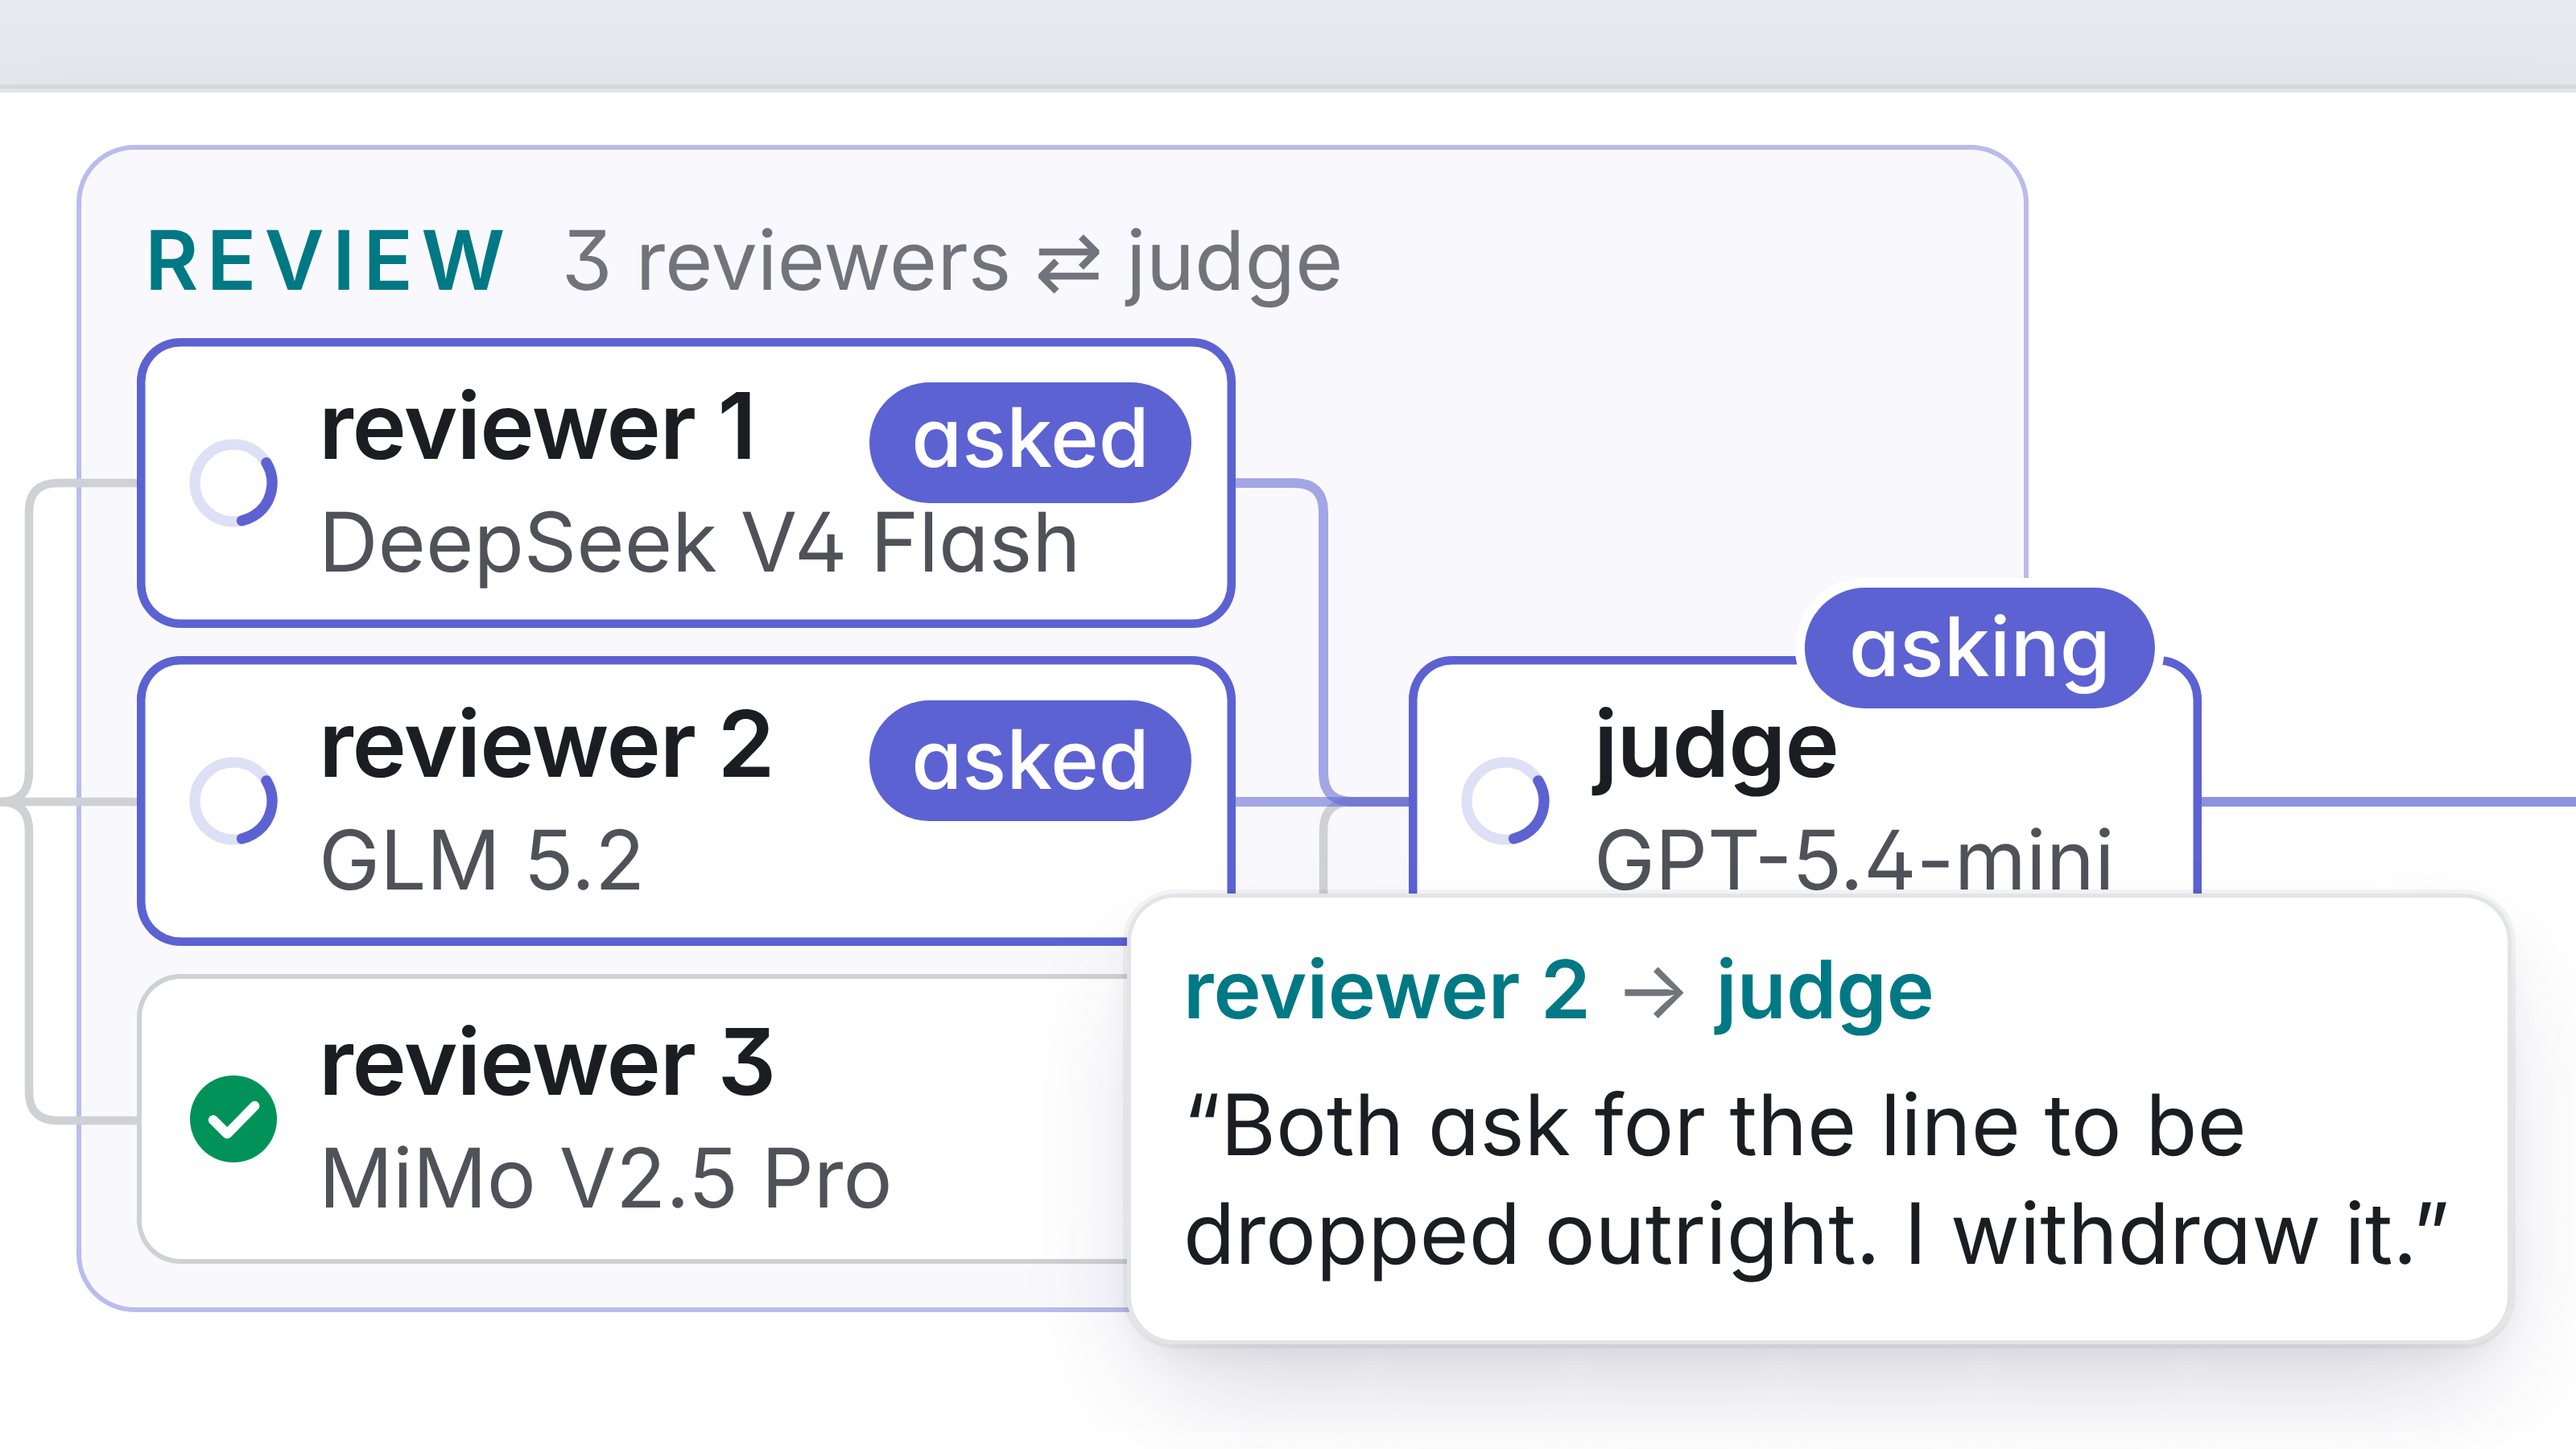
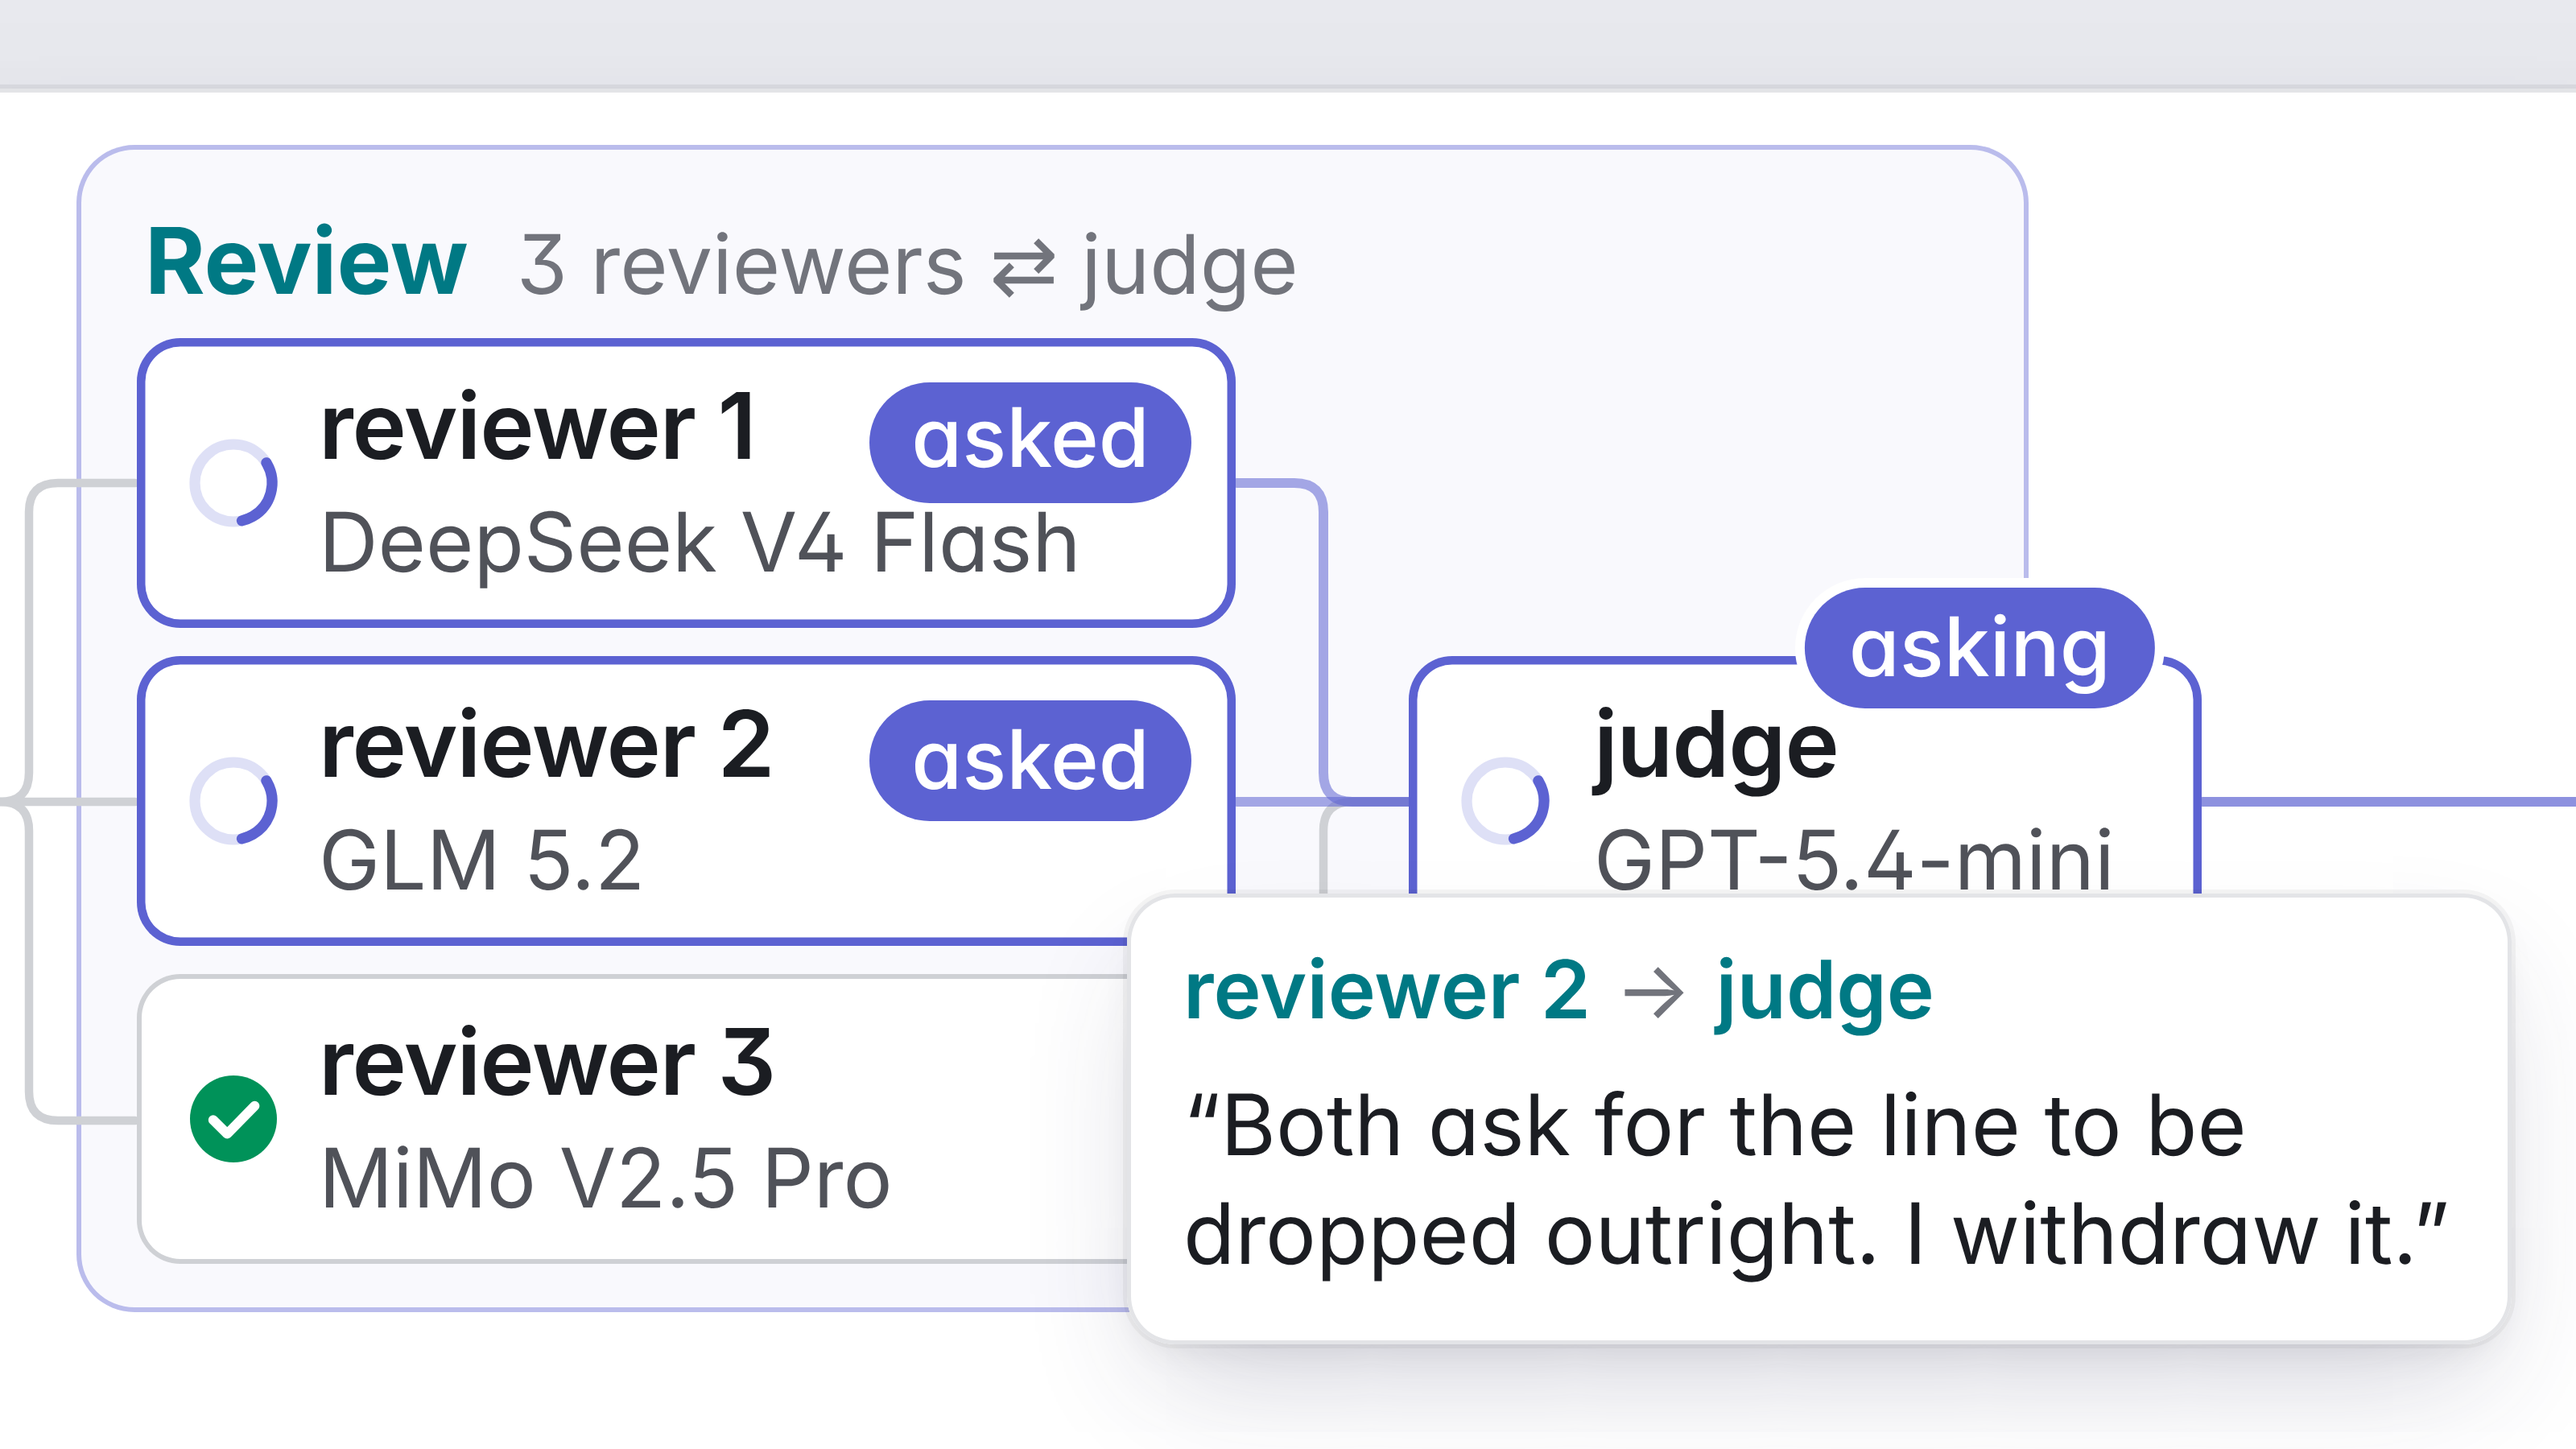
Poster: remove all-caps letter-spaced labels
Drop the eyebrow labels above the pipeline and the demo, set the demo
scenario note, the batch labels and the Review/Propose stage names in
normal sentence case, and re-film the cross-examination still with the
same change.

Changed region(s): [[0.0625, 0.1556, 0.5312, 0.2178]]

diff --git a/poster/index.html b/poster/index.html
@@ -102,9 +102,6 @@ h1 .name { color: var(--hone-hi); }
 .band.alt { background: var(--paper-2); }
 .band.dark { background: var(--ink); color: #fff; }
 #demo { flex: 1 0 auto; }
-.kicker { font-family: var(--mono); font-size: 8.5mm; font-weight: 700; letter-spacing: 0.14em; text-transform: uppercase; color: var(--hone); }
-.dark .kicker { color: var(--hone-hi2); }
-.kicker .tag { display: inline-block; margin-left: 3mm; padding: 0.6mm 2.5mm; border-radius: 1.5mm; background: var(--amber-bg); color: var(--amber-ink); letter-spacing: 0.06em; }
 h2 { font-family: var(--display); font-size: 18mm; line-height: 1.06; font-weight: 800; letter-spacing: -0.02em; }
 
 /* positioning: 2x2 */
@@ -150,8 +147,6 @@ h2 { font-family: var(--display); font-size: 18mm; line-height: 1.06; font-weigh
 .rl-h .ok { color: #7fe3a1; } .rl-h .no { color: #ff9a8f; }
 .grid { display: grid; grid-template-columns: auto auto auto; justify-content: space-between; column-gap: 6mm; row-gap: 1.2mm; align-items: center; }
 .dhead { display: flex; align-items: baseline; justify-content: space-between; gap: 10mm; }
-.gc.gth { padding-bottom: 0; }
-.gth { font-family: var(--mono); font-size: 8.5mm; font-weight: 700; letter-spacing: 0.08em; text-transform: uppercase; color: var(--on-dark-2); border-bottom: 0.4mm solid #4b5060; padding-bottom: 1mm; }
 .gf { font-size: 10.5mm; font-weight: 600; color: #fff; white-space: nowrap; }
 .gc { display: flex; gap: 3mm; }
 .bt { display: flex; }
@@ -181,11 +176,10 @@ h2 { font-family: var(--display); font-size: 18mm; line-height: 1.06; font-weigh
 .ftr .refs { color: #c3c6d0; margin-top: 1mm; }
 .ftr .pid { font-family: var(--mono); font-size: 11mm; font-weight: 700; color: #fff; background: var(--ink-2); border: 0.5mm solid #6b7080; border-radius: 2mm; padding: 2mm 5mm; white-space: nowrap; }
 
-.sb-h { margin-top: 7mm; font-family: var(--mono); font-size: 9mm; font-weight: 700; letter-spacing: 0.1em; text-transform: uppercase; color: var(--hone-hi2); }
 .story { display: grid; grid-template-columns: 1.22fr 1.1fr 0.75fr 1fr; gap: 6mm; margin-top: 7mm; }
 .sb { background: var(--ink-2); border-radius: 2.5mm; padding: 4mm 5mm 4.5mm; box-shadow: inset 0 0 0 0.5mm #3a3f4c; display: flex; flex-direction: column; gap: 1.6mm; }
 .sb.cur { box-shadow: inset 0 0 0 0.8mm var(--hone-hi); }
-.sb-k { font-family: var(--mono); font-size: 9.5mm; font-weight: 700; color: var(--on-dark-2); margin-bottom: 1mm; }
+.sb-k { font-size: 10mm; font-weight: 700; color: var(--on-dark-2); margin-bottom: 1mm; }
 .sb .q { font-size: 11.5mm; line-height: 1.18; font-style: italic; color: #ffd98a; }
 .sb .o { margin-top: auto; font-size: 11.5mm; line-height: 1.15; font-weight: 800; padding: 1mm 3mm 1.4mm; border-radius: 1.8mm; width: fit-content; }
 .sb .o + .o { margin-top: 1.6mm; }
@@ -218,6 +212,9 @@ h2 { font-family: var(--display); font-size: 18mm; line-height: 1.06; font-weigh
 .ptab .sig { font-size: 10.5mm; font-weight: 800; text-align: center; white-space: nowrap; }
 .ptab .sig.y { color: #8f1d14; }
 .ptab .sig.n { color: var(--hone-deep); }
+
+.scen { font-size: 11mm; font-weight: 600; color: var(--on-dark-2); white-space: nowrap; }
+.scen span { margin-left: 2mm; padding: 0.4mm 2.5mm 0.8mm; border-radius: 1.5mm; background: var(--amber-bg); color: var(--amber-ink); font-weight: 700; }
 </style>
 </head>
 <body>
@@ -273,7 +270,6 @@ h2 { font-family: var(--display); font-size: 18mm; line-height: 1.06; font-weigh
 
 
 <section class="band arch" id="arch">
-  <p class="kicker">How it works · MAJICS: Multi-Agent Judgment through Interactive Cross-examination and Synthesis</p>
   <h2>Reviewers disagree, a judge cross-examines, a verifier gates every edit.</h2>
     <svg viewBox="0 0 820 334" font-family="Inter" aria-label="Hone architecture">
     <defs>
@@ -329,7 +325,7 @@ h2 { font-family: var(--display); font-size: 18mm; line-height: 1.06; font-weigh
 
     <!-- ===== REVIEW ===== -->
     <rect x="394" y="0" width="268" height="140" rx="5" fill="#e2e5fb" stroke="#3540a6" stroke-width="0.8"/>
-    <text x="405" y="17" font-size="11" font-weight="700" fill="#3540a6" letter-spacing="0.8">REVIEW</text>
+    <text x="405" y="17" font-size="11" font-weight="700" fill="#3540a6">Review</text>
     <text x="458" y="17" font-size="9" fill="#3540a6">3 reviewers, different LLMs</text>
 
     <line x1="378" y1="62" x2="399" y2="62" stroke="#1a1c21" stroke-width="0.7"/>
@@ -385,7 +381,7 @@ h2 { font-family: var(--display); font-size: 18mm; line-height: 1.06; font-weigh
     <line x1="652" y1="211" x2="642" y2="211" stroke="#1a1c21" stroke-width="0.7" marker-end="url(#a-ink)"/>
     <line x1="652" y1="245" x2="642" y2="245" stroke="#1a1c21" stroke-width="0.7" marker-end="url(#a-ink)"/>
     <line x1="652" y1="279" x2="642" y2="279" stroke="#1a1c21" stroke-width="0.7" marker-end="url(#a-ink)"/>
-    <text x="405" y="187" font-size="11" font-weight="700" fill="#3540a6" letter-spacing="0.8">PROPOSE</text>
+    <text x="405" y="187" font-size="11" font-weight="700" fill="#3540a6">Propose</text>
     <text x="467" y="187" font-size="9" fill="#3540a6">3 proposers, different LLMs</text>
 
     <g font-size="10">
@@ -481,7 +477,7 @@ h2 { font-family: var(--display); font-size: 18mm; line-height: 1.06; font-weigh
 </section>
 
 <section class="band dark" id="demo">
-  <div class="dhead"><p class="rl-h"><span class="ok">Plain feedback became rules.</span> <span class="no">A one-off request did not.</span></p><p class="kicker">The demo <span class="tag">DEMO SCENARIO · HR OFFER LETTERS (SCRIPTED)</span></p></div>
+  <div class="dhead"><p class="rl-h"><span class="ok">Plain feedback became rules.</span> <span class="no">A one-off request did not.</span></p><p class="scen">Demo scenario: HR offer letters <span>scripted</span></p></div>
   <div class="stills">
     <figure class="shot s1"><div class="win"><img src="assets/stills/s1-feedback.png" data-src-w="3080" data-stage-w="440" data-min-px="23" alt="Feedback popover under the agent's reply: There's a £0 sign-on bonus line. If there's no bonus, just leave the line out. Send to Hone"></div><figcaption><span class="n">1</span>The user comments on a reply</figcaption></figure>
     <svg class="sar" viewBox="0 0 30 40" fill="none" stroke="#a9b2ff" stroke-width="3.2" stroke-linecap="round" stroke-linejoin="round"><path d="M3 20 H25 M16 9 L26 20 L16 31"/></svg>

diff --git a/poster/tools/body.css b/poster/tools/body.css
@@ -77,9 +77,6 @@ h1 .name { color: var(--hone-hi); }
 .band.alt { background: var(--paper-2); }
 .band.dark { background: var(--ink); color: #fff; }
 #demo { flex: 1 0 auto; }
-.kicker { font-family: var(--mono); font-size: 8.5mm; font-weight: 700; letter-spacing: 0.14em; text-transform: uppercase; color: var(--hone); }
-.dark .kicker { color: var(--hone-hi2); }
-.kicker .tag { display: inline-block; margin-left: 3mm; padding: 0.6mm 2.5mm; border-radius: 1.5mm; background: var(--amber-bg); color: var(--amber-ink); letter-spacing: 0.06em; }
 h2 { font-family: var(--display); font-size: 18mm; line-height: 1.06; font-weight: 800; letter-spacing: -0.02em; }
 
 /* positioning: 2x2 */
@@ -125,8 +122,6 @@ h2 { font-family: var(--display); font-size: 18mm; line-height: 1.06; font-weigh
 .rl-h .ok { color: #7fe3a1; } .rl-h .no { color: #ff9a8f; }
 .grid { display: grid; grid-template-columns: auto auto auto; justify-content: space-between; column-gap: 6mm; row-gap: 1.2mm; align-items: center; }
 .dhead { display: flex; align-items: baseline; justify-content: space-between; gap: 10mm; }
-.gc.gth { padding-bottom: 0; }
-.gth { font-family: var(--mono); font-size: 8.5mm; font-weight: 700; letter-spacing: 0.08em; text-transform: uppercase; color: var(--on-dark-2); border-bottom: 0.4mm solid #4b5060; padding-bottom: 1mm; }
 .gf { font-size: 10.5mm; font-weight: 600; color: #fff; white-space: nowrap; }
 .gc { display: flex; gap: 3mm; }
 .bt { display: flex; }
@@ -156,11 +151,10 @@ h2 { font-family: var(--display); font-size: 18mm; line-height: 1.06; font-weigh
 .ftr .refs { color: #c3c6d0; margin-top: 1mm; }
 .ftr .pid { font-family: var(--mono); font-size: 11mm; font-weight: 700; color: #fff; background: var(--ink-2); border: 0.5mm solid #6b7080; border-radius: 2mm; padding: 2mm 5mm; white-space: nowrap; }
 
-.sb-h { margin-top: 7mm; font-family: var(--mono); font-size: 9mm; font-weight: 700; letter-spacing: 0.1em; text-transform: uppercase; color: var(--hone-hi2); }
 .story { display: grid; grid-template-columns: 1.22fr 1.1fr 0.75fr 1fr; gap: 6mm; margin-top: 7mm; }
 .sb { background: var(--ink-2); border-radius: 2.5mm; padding: 4mm 5mm 4.5mm; box-shadow: inset 0 0 0 0.5mm #3a3f4c; display: flex; flex-direction: column; gap: 1.6mm; }
 .sb.cur { box-shadow: inset 0 0 0 0.8mm var(--hone-hi); }
-.sb-k { font-family: var(--mono); font-size: 9.5mm; font-weight: 700; color: var(--on-dark-2); margin-bottom: 1mm; }
+.sb-k { font-size: 10mm; font-weight: 700; color: var(--on-dark-2); margin-bottom: 1mm; }
 .sb .q { font-size: 11.5mm; line-height: 1.18; font-style: italic; color: #ffd98a; }
 .sb .o { margin-top: auto; font-size: 11.5mm; line-height: 1.15; font-weight: 800; padding: 1mm 3mm 1.4mm; border-radius: 1.8mm; width: fit-content; }
 .sb .o + .o { margin-top: 1.6mm; }
@@ -193,3 +187,6 @@ h2 { font-family: var(--display); font-size: 18mm; line-height: 1.06; font-weigh
 .ptab .sig { font-size: 10.5mm; font-weight: 800; text-align: center; white-space: nowrap; }
 .ptab .sig.y { color: #8f1d14; }
 .ptab .sig.n { color: var(--hone-deep); }
+
+.scen { font-size: 11mm; font-weight: 600; color: var(--on-dark-2); white-space: nowrap; }
+.scen span { margin-left: 2mm; padding: 0.4mm 2.5mm 0.8mm; border-radius: 1.5mm; background: var(--amber-bg); color: var(--amber-ink); font-weight: 700; }

diff --git a/poster/tools/body.html b/poster/tools/body.html
@@ -22,7 +22,6 @@
 
 
 <section class="band arch" id="arch">
-  <p class="kicker">How it works · MAJICS: Multi-Agent Judgment through Interactive Cross-examination and Synthesis</p>
   <h2>Reviewers disagree, a judge cross-examines, a verifier gates every edit.</h2>
   @@SVG@@
   <div class="minepts">
@@ -34,7 +33,7 @@
 </section>
 
 <section class="band dark" id="demo">
-  <div class="dhead"><p class="rl-h"><span class="ok">Plain feedback became rules.</span> <span class="no">A one-off request did not.</span></p><p class="kicker">The demo <span class="tag">DEMO SCENARIO · HR OFFER LETTERS (SCRIPTED)</span></p></div>
+  <div class="dhead"><p class="rl-h"><span class="ok">Plain feedback became rules.</span> <span class="no">A one-off request did not.</span></p><p class="scen">Demo scenario: HR offer letters <span>scripted</span></p></div>
   <div class="stills">
     <figure class="shot s1"><div class="win"><img src="assets/stills/s1-feedback.png" data-src-w="3080" data-stage-w="440" data-min-px="23" alt="Feedback popover under the agent's reply: There's a £0 sign-on bonus line. If there's no bonus, just leave the line out. Send to Hone"></div><figcaption><span class="n">1</span>The user comments on a reply</figcaption></figure>
     <svg class="sar" viewBox="0 0 30 40" fill="none" stroke="#a9b2ff" stroke-width="3.2" stroke-linecap="round" stroke-linejoin="round"><path d="M3 20 H25 M16 9 L26 20 L16 31"/></svg>
